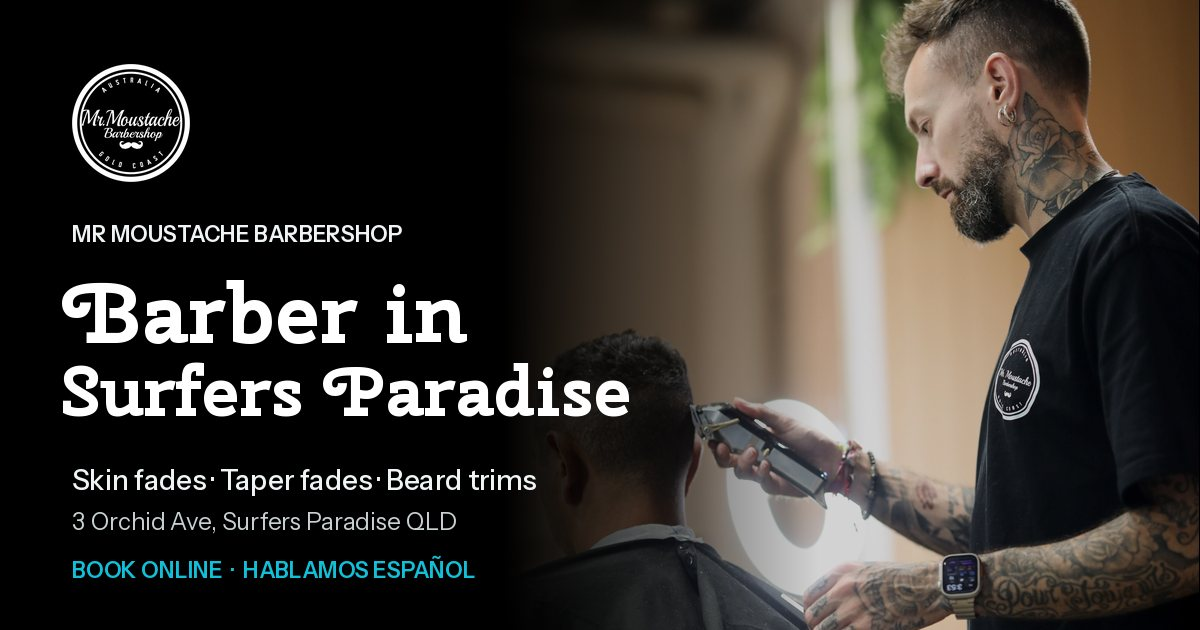
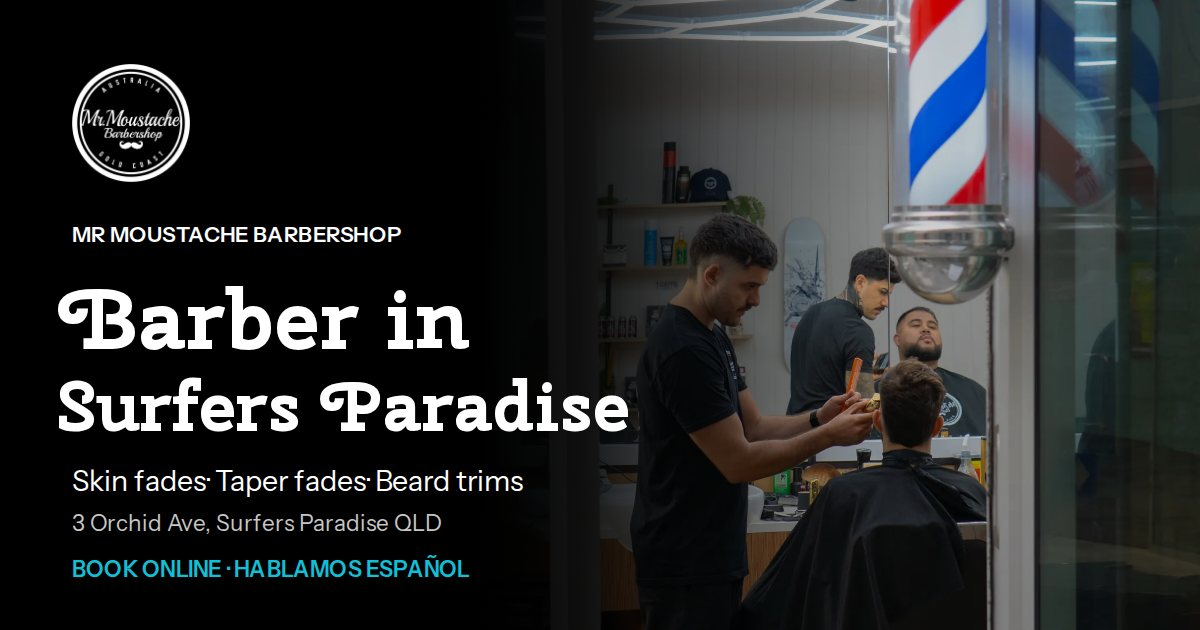
Use hero-2 for the Surfers Paradise page and its share image
- /surfers-paradise hero: barber cutting beside the barber pole
  (hero/hero-2.jpg) instead of the older clipper photo.
- Share image (Open Graph / Twitter): same card design with the new photo,
  and updated alt text.
- Drop the replaced photo file.

Claude-Session: https://claude.ai/code/session_01XihPcboxAmhgnGVobhZEW1

diff --git a/src/data/locations.ts b/src/data/locations.ts
@@ -44,9 +44,9 @@ export const locations = [
     },
     // TODO: Swap for a photo the client confirms was taken in this shop.
     image: {
-      src: "/images/locations/mr-moustache-barber-clipper-cut.webp",
-      alt: "Mr Moustache barber cutting a client's hair with clippers",
-      position: "60% 30%",
+      src: "/images/locations/mr-moustache-barber-pole-surfers-paradise.webp",
+      alt: "Mr Moustache barber cutting a client's hair beside the barber pole",
+      position: "18% 40%",
     },
     page: {
       title: "Barber in Surfers Paradise – Fades & Beard Trims | Mr Moustache",

diff --git a/docs/SEO_PLAN.md b/docs/SEO_PLAN.md
@@ -308,7 +308,7 @@ llevan a las páginas de sede. Los links viejos `/#surfers-paradise` y
   era 307 (temporal).
 - **Search Console por etiqueta HTML** opcional: `GOOGLE_SITE_VERIFICATION`.
 - **Alt texts:** fotos de cada sede con alt descriptivo y nombre de archivo
-  descriptivo (`mr-moustache-barber-clipper-cut.webp`,
+  descriptivo (`mr-moustache-barber-pole-surfers-paradise.webp`,
   `mr-moustache-barber-haircut-mirror.webp`); fondos decorativos con `alt=""`.
   ⚠ Son fotos reales del equipo, pero no sabemos de qué sede es cada una:
   reemplazarlas por una foto confirmada de cada local cuando las haya
